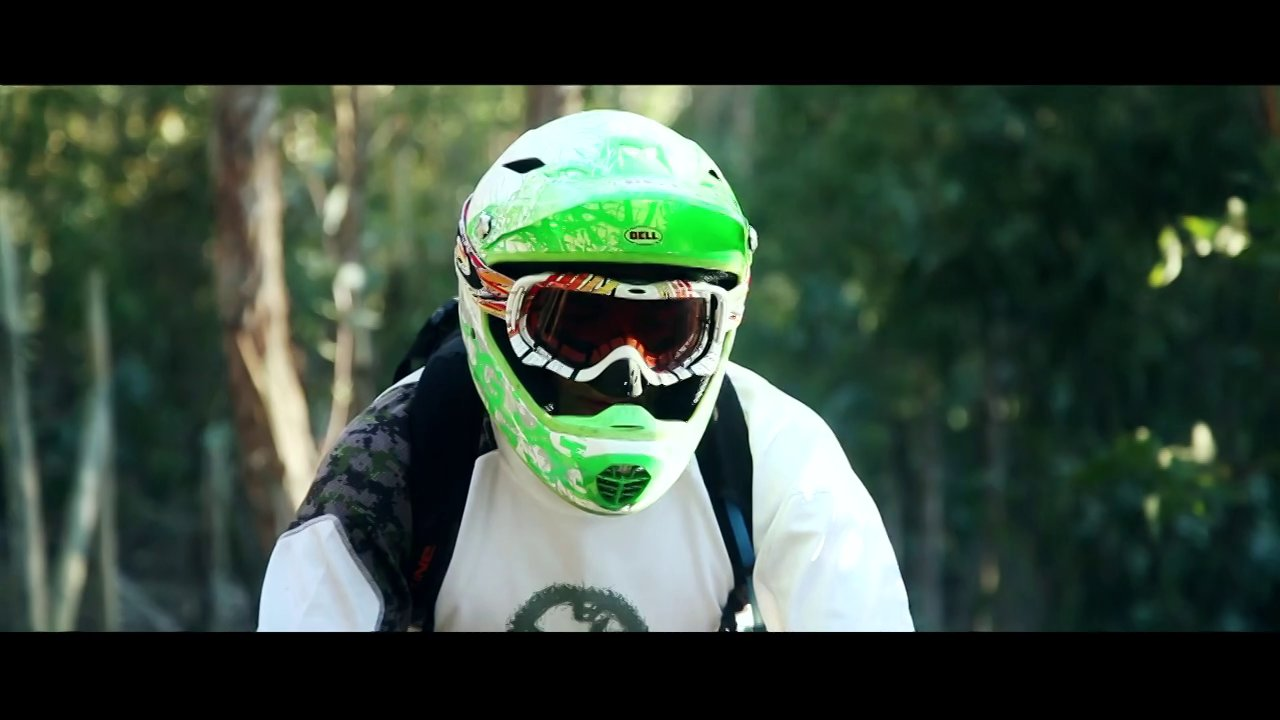
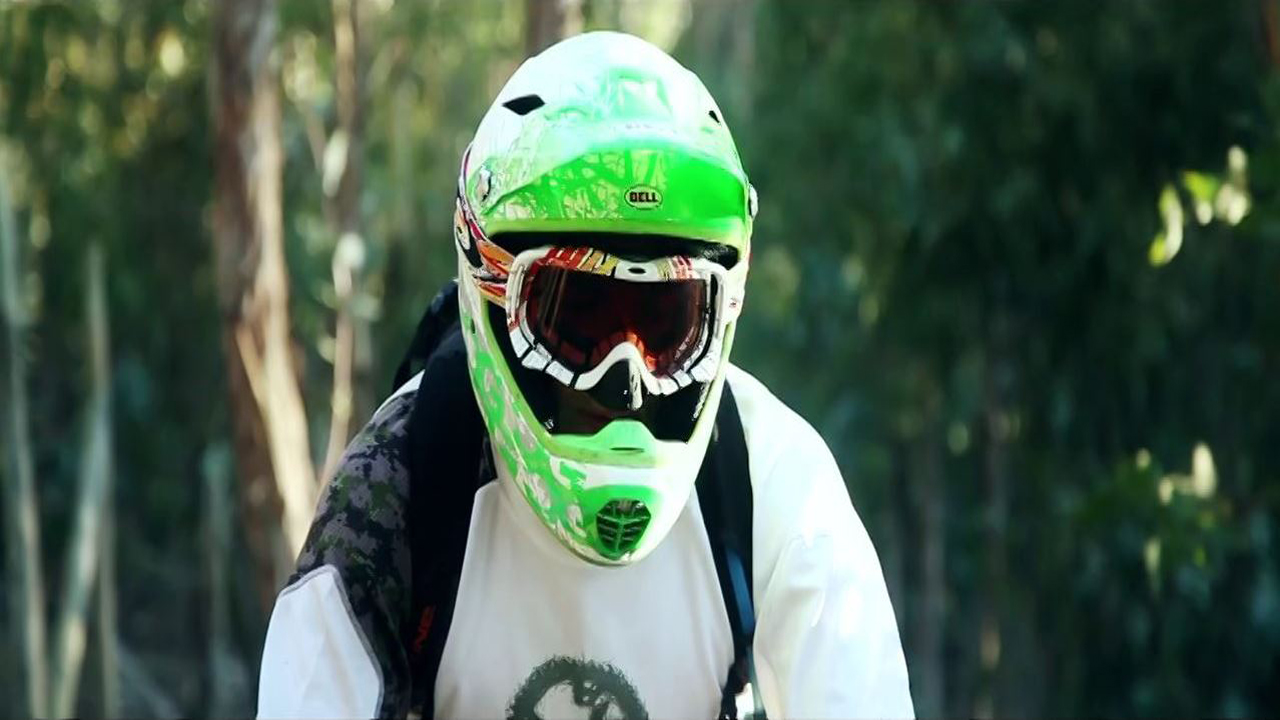
Changed some images without letterbox styling and fixes sponsors carousel width on images

diff --git a/app/assets/stylesheets/welcome.css.scss b/app/assets/stylesheets/welcome.css.scss
@@ -265,7 +265,6 @@
           }
           .video-box + .video-box{
             background-image: image-url("autosbn.jpg");
-            overflow-x: hidden;
           }
           height: 50%;
         }
@@ -276,7 +275,6 @@
           }
           .video-box + .video-box{
             background-image: image-url("carpenterbn.jpg");
-            overflow-x: hidden;
           }
           height: 50%;
         }
@@ -298,7 +296,6 @@
         }
         .video-box + .video-box + .video-box + .video-box{
           background-image: image-url("rodeobn.jpg");
-          overflow-x: hidden;
         }
         height: 34%;
       }
@@ -347,7 +344,6 @@
           text-align: center;
           img{
             display: inline;
-            width: 80px;
             max-width: 100%;
             max-height: 100%;
             padding-top: 3%;
